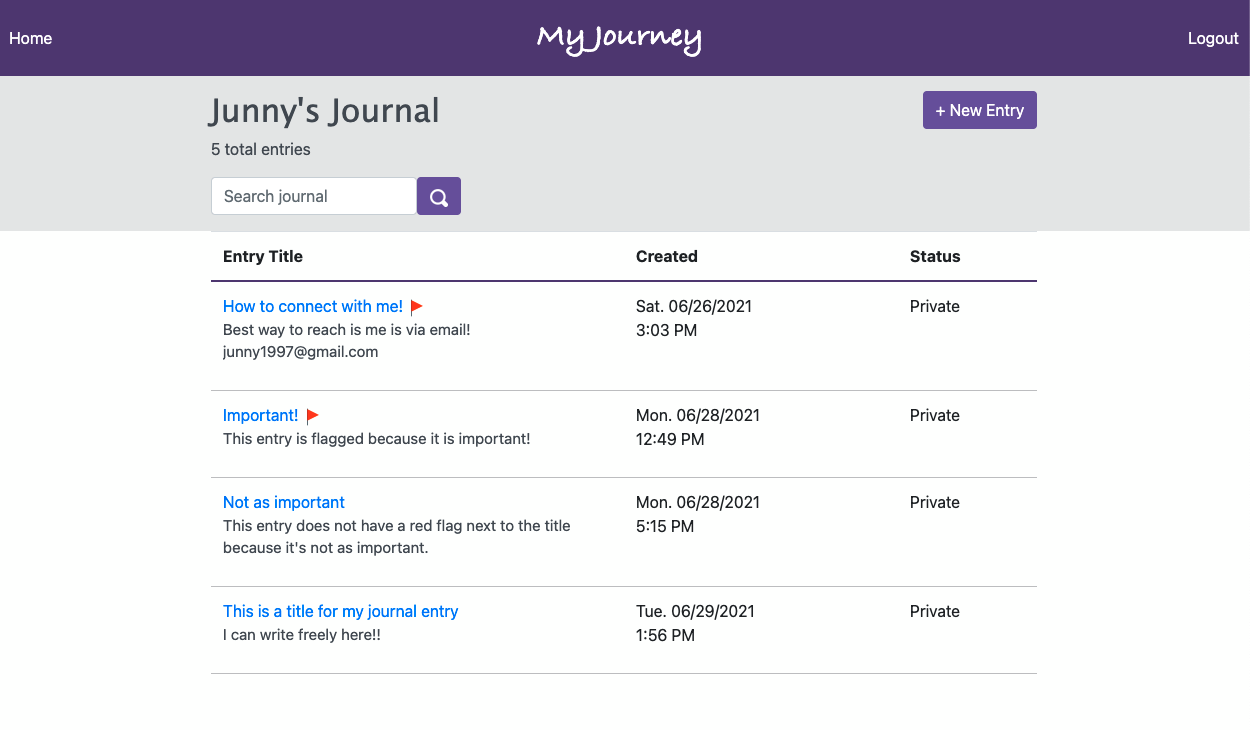
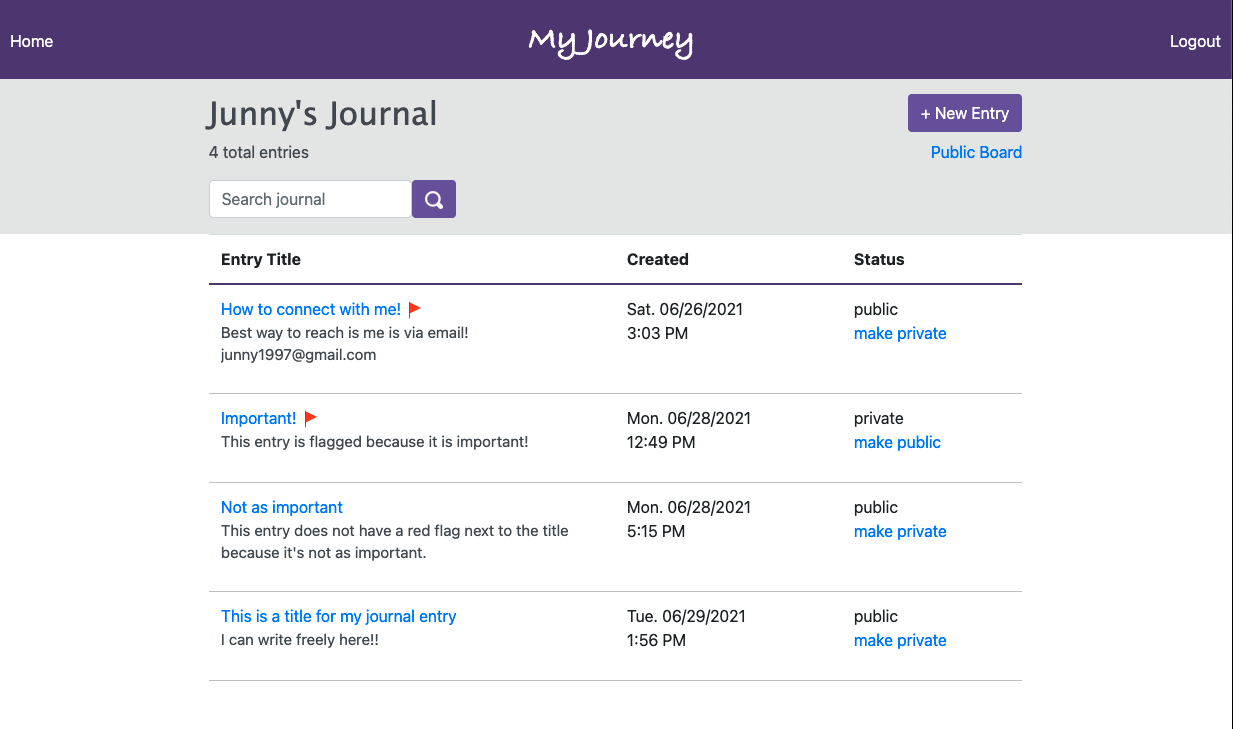
more screenshots

diff --git a/src/main/resources/static/css/publicPosts.css b/src/main/resources/static/css/publicPosts.css
@@ -1,0 +1,83 @@
+*{
+	margin: 0px;
+	padding: px;
+}
+body{
+	background-color: #fefffe;
+}
+#navBar{
+	display: flex;
+	justify-content: space-between;
+	background-color: #998aa8;
+	color: white;
+	padding: 1.3rem 0.7rem 0rem 0.7rem;
+	align-items: baseline;
+}
+.aTags, .aTags:hover{
+	text-decoration: none;
+	color: white;
+}
+#logo{
+	padding: 1%;
+	padding-top: 0px;
+	font-family: Bradley Hand, cursive;
+	text-align: center;
+	background-color: #998aa8;
+	color: white;
+	/* margin-left: 43.5%; */
+}
+#logoTag{
+	text-decoration: none;
+	color: white;
+}
+#mainHeader{
+	display: flex;
+	justify-content: space-between;
+}
+#header{
+	background-color: #e7e8e8;
+	padding: 1.2% 17% 1.3% 17%;
+	color: #4a515a;
+}
+#subheader{
+	display: flex;
+	justify-content: space-between;
+}
+#searchBarForm{
+	display: flex;
+	justify-content: left;
+}
+.btn.btn-primary{
+	background-color: #998aa8;
+	align-items: center;
+	color: white;
+	border: solid 1px #998aa8;
+}
+.btn.btn-primary:hover{
+	background-color: #a292c7;
+	align-items: center;
+	color: white;
+	border: solid 1px #a292c7;
+}
+.table{
+	width: 66%;
+	margin: auto;
+	padding-left: 4%;
+}
+.table thead > tr > th{
+  border-bottom: #998aa8 2px solid;
+}
+.table tbody > tr > td {
+   border-bottom: #c4c5c7 1.5px solid; 
+}
+#entryText{
+	color: #4a515a;
+	overflow: hidden;
+	font-size: 95%;
+}
+#entryText{
+	color: #4a515a;
+}
+#welcome{
+	font-family: lucida grande;
+}

diff --git a/src/main/java/com/junny/myJourney/services/PostService.java b/src/main/java/com/junny/myJourney/services/PostService.java
@@ -9,27 +9,63 @@ import java.util.Set;
 import org.springframework.stereotype.Service;
 
 import com.junny.myJourney.models.Post;
+import com.junny.myJourney.models.User;
 import com.junny.myJourney.repositories.PostRepository;
 
 @Service
 public class PostService {
 	 // adding the post repository as a dependency
 	 private final PostRepository postRepository;
+//	 private final UserRepository userRepository;
 	 
+//	 public PostService(PostRepository postRepository, UserRepository userRepository) {
+//	     this.postRepository = postRepository;
+//	     this.userRepository = userRepository;
+//	 }
 	 public PostService(PostRepository postRepository) {
 	     this.postRepository = postRepository;
 	 }
+	 
 	 // returns all the posts
 	 public List<Post> allPosts() {
 	     return postRepository.findAll(); // https://docs.spring.io/spring-data/jpa/docs/current/reference/html/#reference 
 	 }
 	 
+//	 // created this one for search!
+//	 public ArrayList<Post> allMatchedPosts(Long userId, String search1, String search2, String search3){
+//		 ArrayList<Post> output = new ArrayList<Post>(); // did not let us have List
+//		 HashMap<Long,Post> map = new HashMap<Long,Post>(); // HashMap = dictionary of Java (dictionaries were in Python and JS)
+////		 List<Post> matchedPosts = user.getEvents();
+////		 matchedPosts = postRepository.findByTitleContaining(search);
+//		 List<Post> matchedPosts = postRepository.findOneUsersPostsBySearchOnTitle(userId, search1, search2, search3);
+//		 System.out.println(matchedPosts);
+////		 List<Post> matchedPostsInText = user.getEvents();
+////		 matchedPostsInText = postRepository.findByTitleContaining(search);
+//		 List<Post> matchedPostsInText = postRepository.findOneUsersPostsBySearchOnText(userId, search1, search2, search3);
+////		 List<Post> matchedPosts = postRepository.findByTitleContaining(search);
+////		 List<Post> matchedPostsInText = postRepository.findByTextContaining(search);
+//		 for (int i = 0; i <matchedPostsInText.size(); i++) {
+//			 map.put(matchedPostsInText.get(i).getId(), matchedPostsInText.get(i)); // map acts as a dictionary (can only have one key value). so we want that key to be the ID (keeps it from duplicating)
+//		 }
+//		 for (int i = 0; i <matchedPosts.size(); i++) {
+//			 map.put(matchedPosts.get(i).getId(), matchedPosts.get(i)); // map acts as a dictionary (can only have one key value). so we want that key to be the ID (keeps it from duplicating)
+//		 }
+//		 // everything is in the map now, we need to put it into a List<Post>
+//		 Set<Long> keys = map.keySet(); // Set sets the keys (empty key map)
+//         for(Long key : keys) {
+//            output.add(map.get(key));
+//         }
+//		 return output;
+//	 }
+	
 	 // created this one for search!
-	 public ArrayList<Post> allMatchedPosts(String search){
+	 public ArrayList<Post> allMatchedPosts(String search, User user){
 		 ArrayList<Post> output = new ArrayList<Post>(); // did not let us have List
 		 HashMap<Long,Post> map = new HashMap<Long,Post>(); // HashMap = dictionary of Java (dictionaries were in Python and JS)
-		 List<Post> matchedPosts = postRepository.findByTitleContaining(search);
-		 List<Post> matchedPostsInText = postRepository.findByTextContaining(search);
+		 List<Post> matchedPosts = user.getEvents();
+		 matchedPosts = postRepository.findByTitleContaining(search);
+		 List<Post> matchedPostsInText = user.getEvents();
+		 matchedPostsInText = postRepository.findByTitleContaining(search);
 		 for (int i = 0; i <matchedPostsInText.size(); i++) {
 			 map.put(matchedPostsInText.get(i).getId(), matchedPostsInText.get(i)); // map acts as a dictionary (can only have one key value). so we want that key to be the ID (keeps it from duplicating)
 		 }
@@ -44,15 +80,46 @@ public class PostService {
 		 return output;
 	 }
 	 
+	// created this one for PUBLIC search!
+	 public ArrayList<Post> allMatchedPublicPosts(String search){
+		 ArrayList<Post> output = new ArrayList<Post>(); // did not let us have List
+		 HashMap<Long,Post> map = new HashMap<Long,Post>(); // HashMap = dictionary of Java (dictionaries were in Python and JS)
+		 List<Post> matchedPublicPosts = postRepository.findAllPublicPosts();
+		 System.out.println("before");
+		 System.out.println(matchedPublicPosts);
+		 matchedPublicPosts = postRepository.findByTextContaining(search);
+		 System.out.println("after");
+		 System.out.println(matchedPublicPosts);
+		 List<Post> matchedPublicPostsInText = postRepository.findAllPublicPosts();
+		 matchedPublicPostsInText = postRepository.findByTitleContaining(search);
+		 for (int i = 0; i <matchedPublicPostsInText.size(); i++) {
+			 map.put(matchedPublicPostsInText.get(i).getId(), matchedPublicPostsInText.get(i)); // map acts as a dictionary (can only have one key value). so we want that key to be the ID (keeps it from duplicating)
+		 }
+		 for (int i = 0; i <matchedPublicPosts.size(); i++) {
+			 map.put(matchedPublicPosts.get(i).getId(), matchedPublicPosts.get(i)); // map acts as a dictionary (can only have one key value). so we want that key to be the ID (keeps it from duplicating)
+		 }
+		 // everything is in the map now, we need to put it into a List<Post>
+		 Set<Long> keys = map.keySet(); // Set sets the keys (empty key map)
+         for(Long key : keys) {
+            output.add(map.get(key));
+         }
+		 return output;
+	 }
+	 
 	 // created this one for DESC
 	 public List<Post> allPostsDesc(){
 		 return postRepository.postsDescByDate();
 	 }
 	 
-	// created this one for ASC
-		 public List<Post> allPostsAsc(){
-			 return postRepository.postsAscByDate();
-		 }
+	 // created this one for ASC
+	 public List<Post> allPostsAsc(){
+		 return postRepository.postsAscByDate();
+	 }
+	 
+	 // created this one for public posts
+	 public List<Post> allPublicPosts(){
+		 return postRepository.findAllPublicPosts();
+	 }
 	 
 	 // creates a post
 	 public Post createPost(Post n) {

diff --git a/src/main/java/com/junny/myJourney/controllers/MainController.java b/src/main/java/com/junny/myJourney/controllers/MainController.java
@@ -84,7 +84,8 @@ public class MainController {
 		 //List<Post> posts = postService.allPosts();
 		 // dont need this now, but might later for public space!!!
 		 List<Post> posts = postService.allPostsDesc();
-		 int countPosts = posts.size();
+//		 int countPosts = posts.size();
+		 int countPosts = u.getEvents().size();
 		 model.addAttribute("posts", posts);
 		 model.addAttribute("post", new Post()); // look at this line!
 		 model.addAttribute("user", u);
@@ -200,19 +201,39 @@ public class MainController {
 	 @RequestMapping("/search/{search}") // READ matched posts
 	 public String viewSearch(Model model,
 			 @PathVariable(value = "search") String search, HttpSession session) {
-	     ArrayList<Post> posts = postService.allMatchedPosts(search); // changed this from List to ArrayList
-	     model.addAttribute("posts", posts);
-	     Long userId = (Long) session.getAttribute("userId");
+		 Long userId = (Long) session.getAttribute("userId");
 		 User u = userService.findUserById(userId);
+//	     ArrayList<Post> posts = postService.allMatchedPosts(userId,search, search, search); // changed this from List to ArrayList
+		 ArrayList<Post> posts = postService.allMatchedPosts(search, u);
+		 model.addAttribute("posts", posts);
 		 model.addAttribute("user", u);
 		 int countPosts = posts.size();
 		 model.addAttribute("countPosts", countPosts);
 	     return "/matchedPosts.jsp";
 	 }
 	 
-	 @PostMapping("/search") // READ ALL MATCHED SONGS // short hand of post
+	 @PostMapping("/search") // READ ALL MATCHED POSTS
 	 public String search(@RequestParam(value = "search") String search) {
 	     return "redirect:/search/" + search;
+	 }
+	 
+	 // this is new. the same functionality as search bar for private use, but for only public posts
+	 @RequestMapping("/search/public/{search}") // READ matched posts
+	 public String viewSearchPublic(Model model,
+			 @PathVariable(value = "search") String search, HttpSession session) {
+		 ArrayList<Post> posts = postService.allMatchedPublicPosts(search); // changed this from List to ArrayList
+	     model.addAttribute("posts", posts);
+	     Long userId = (Long) session.getAttribute("userId");
+		 User u = userService.findUserById(userId);
+		 model.addAttribute("user", u);
+		 int countPosts = posts.size();
+		 model.addAttribute("countPosts", countPosts);
+	     return "/matchedPublicPosts.jsp";
+	 }
+	 
+	 @PostMapping("/search/public") // READ ALL MATCHED POSTS
+	 public String searchPublic(@RequestParam(value = "search") String search) {
+	     return "redirect:/search/public/" + search;
 	 }
 	 
 	 @RequestMapping("/posts/{postId}/favorited")
@@ -241,8 +262,23 @@ public class MainController {
 		 model.addAttribute("user", u);
 		 model.addAttribute("p", p);
 		 postService.createPost(p); // save the favorite because create method saves
-		 return "allPosts.jsp";
+		 return "redirect:/posts";
 	 }
 	 
+	 @RequestMapping("/posts/public")
+	 public String publicPosts(HttpSession session, Model model) {
+		 Long userId = (Long) session.getAttribute("userId");
+		 User u = userService.findUserById(userId);
+		 List<Post> publicPosts = postService.allPublicPosts();
+		 int countPosts = publicPosts.size();
+//		 if (p.isPersonal() == false) {p.setPersonal(true);}
+//		 else {p.setPersonal(false);}
+		 model.addAttribute("post", new Post()); // look at this line!
+		 model.addAttribute("user", u);
+		 model.addAttribute("publicPosts", publicPosts);
+		 model.addAttribute("countPosts", countPosts);
+//		 postService.createPost(p); // save the favorite because create method saves
+		 return "publicPosts.jsp";
+	 }
 }
 

diff --git a/src/main/java/com/junny/myJourney/repositories/PostRepository.java b/src/main/java/com/junny/myJourney/repositories/PostRepository.java
@@ -21,4 +21,15 @@ public interface PostRepository extends CrudRepository<Post, Long>{
 	// sort by date ASC
 	@Query(value = "SELECT * FROM posts ORDER BY created_at ASC", nativeQuery = true)
 	List<Post> postsAscByDate();
+	
+	// personal = 1 = private; personal = 0 = public
+	@Query(value = "SELECT * FROM posts WHERE personal=0", nativeQuery = true)
+	List<Post> findAllPublicPosts();
+	
+//	// get one user's posts that contains the searched string in title or text
+//	@Query(value="SELECT * FROM posts WHERE user_id = ?1 AND (text LIKE %?2% OR text LIKE %?3 OR text LIKE ?4%)")
+//	List<Post> findOneUsersPostsBySearchOnText(Long id, String searc1h, String search2, String search3);
+//	
+//	@Query(value="SELECT * FROM posts WHERE user_id = ?1 AND (title LIKE %?2% OR title LIKE %?3 OR title LIKE ?4%)")
+//	List<Post> findOneUsersPostsBySearchOnTitle(Long id, String searc1h, String search2, String search3);
 }

diff --git a/src/main/java/com/junny/myJourney/models/Post.java b/src/main/java/com/junny/myJourney/models/Post.java
@@ -29,7 +29,7 @@ public class Post {
     private String text;
     
     private boolean favorite;
-    private boolean personal; // if personal is true = private; if personal is false = public
+    private boolean personal; // personal = 1 = private; personal = 0 = public
     
     @Column(updatable=false)
     private Date createdAt;
